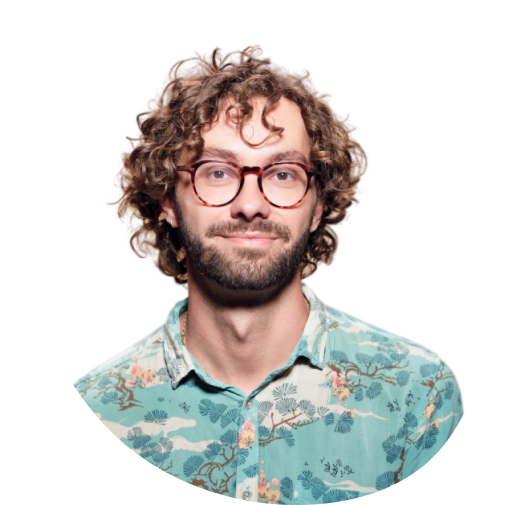
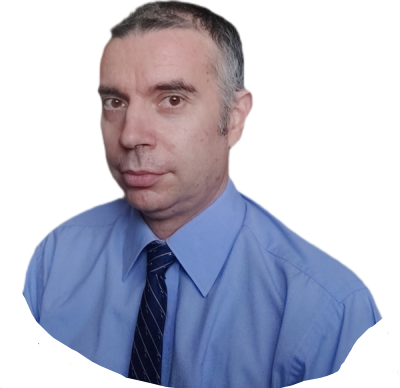
about tabs

diff --git a/components/About.jsx b/components/About.jsx
@@ -1,0 +1,143 @@
+import DevImg from "./DevImg";
+import Image from "next/image";
+import { Tabs, TabsContent, TabsList, TabsTrigger } from "@/components/ui/tabs";
+import {
+  User2,
+  MailIcon,
+  HomeIcon,
+  PhoneCall,
+  GraduationCap,
+  Calendar,
+  Briefcase,
+} from "lucide-react";
+
+const infoData = [
+  {
+    icon: <User2 size={20} />,
+    text: "Herlea Marius",
+  },
+  {
+    icon: <MailIcon size={20} />,
+    text: "mariusherlea@gmail.com",
+  },
+  {
+    icon: <HomeIcon size={20} />,
+    text: "Principala,Vinerea,RO",
+  },
+  {
+    icon: <PhoneCall size={20} />,
+    text: "+40 722 256 129",
+  },
+  {
+    icon: <GraduationCap size={20} />,
+    text: "Bachelor of Computer Science",
+  },
+  {
+    icon: <Calendar size={20} />,
+    text: "Born on 6 Jan, 1977",
+  },
+];
+const qualificationsData = [
+  {
+    title: "education",
+    data: [
+      {
+        training: "Skillbrain",
+        qualification: "Front-end Developer course",
+        year: "2023-2024",
+      },
+      {
+        university: "Alba Iulia University",
+        qualification: "Bachelor of Computer Science",
+        year: "2017-2020",
+      },
+      {
+        university: "Alba Iulia University",
+        qualification: "Bachelor of Economics",
+        year: "1997-2003",
+      },
+    ],
+  },
+  {
+    title: "experience",
+    data: [
+      {
+        company: "Skillbrain-Jogga internship",
+        qualification: "Front-end Developer",
+        year: "2024",
+      },
+      {
+        company: "schmalzle fleischwaren GmbH",
+        qualification: "Worker",
+        year: "2022-2023",
+      },
+    ],
+  },
+];
+const skillData = [
+  {
+    title: "skills",
+    data: [
+      { name: "HTML, CSS " },
+      { name: "Javascript" },
+      { name: "React" },
+      { name: "Next.js, OOP" },
+    ],
+  },
+  {
+    title: "tools",
+    data: [
+      { imgPath: "/about/vscode.svg" },
+      { imgPath: "/about/figma.svg" },
+      { imgPath: "/about/notion.svg" },
+      { imgPath: "/about/vscode.svg" },
+    ],
+  },
+];
+
+const About = () => {
+  const getData = (arr, title) => {
+    return arr.find((item) => item.title === title);
+  };
+
+  return (
+    <section className="xl:h-[860px] pb-12 xl:py-24">
+      <div className="container mx-auto">
+        <h2 className="section-title mb-8 xl:mb-16 text-center mx-auto">
+          About me
+        </h2>
+        <div className="flex flex-col xl:flex-row">
+          {/*image*/}
+          <div className="hidden xl:flex flex-1 relative">
+            <DevImg
+              containerStyles="dark:bg-about_shape_dark 
+              w-[505px] h-[505px] bg-no-repeat relative"
+              imgSrc={"/about/developer.png"}
+            />
+          </div>
+          {/*tabs*/}
+          <div className="flex-1">
+            <Tabs defaultValue="personal">
+              <TabsList className="w-full grid xl:grid-cols-3 xl:max-w-[520px] xl:border dark:border-none">
+                <TabsTrigger value="personal">Personal Info</TabsTrigger>
+                <TabsTrigger value="qualifications">Qualifications</TabsTrigger>
+                <TabsTrigger value="skills">Skills</TabsTrigger>
+              </TabsList>
+              {/** tabs content*/}
+              <div className="text-lg mt-12 xl:mt-8">
+                {/** personal info*/}
+                <TabsContent value="personal">personal info</TabsContent>
+                <TabsContent value="qualifications">
+                  qualifications info
+                </TabsContent>
+                <TabsContent value="skills">skills info</TabsContent>
+              </div>
+            </Tabs>
+          </div>
+        </div>
+      </div>
+    </section>
+  );
+};
+
+export default About;

diff --git a/components/ui/tabs.jsx b/components/ui/tabs.jsx
@@ -1,33 +1,35 @@
-"use client"
+"use client";
 
-import * as React from "react"
-import * as TabsPrimitive from "@radix-ui/react-tabs"
+import * as React from "react";
+import * as TabsPrimitive from "@radix-ui/react-tabs";
 
-import { cn } from "@/lib/utils"
+import { cn } from "@/lib/utils";
 
-const Tabs = TabsPrimitive.Root
+const Tabs = TabsPrimitive.Root;
 
 const TabsList = React.forwardRef(({ className, ...props }, ref) => (
   <TabsPrimitive.List
     ref={ref}
     className={cn(
-      "inline-flex h-10 items-center justify-center rounded-md bg-muted p-1 text-muted-foreground",
+      "inline-flex items-center justify-center xl:bg-white p-1 text-muted-foreground rounded-[10px] dark:md:bg-secondary",
       className
     )}
-    {...props} />
-))
-TabsList.displayName = TabsPrimitive.List.displayName
+    {...props}
+  />
+));
+TabsList.displayName = TabsPrimitive.List.displayName;
 
 const TabsTrigger = React.forwardRef(({ className, ...props }, ref) => (
   <TabsPrimitive.Trigger
     ref={ref}
     className={cn(
-      "inline-flex items-center justify-center whitespace-nowrap rounded-sm px-3 py-1.5 text-sm font-medium ring-offset-background transition-all focus-visible:outline-none focus-visible:ring-2 focus-visible:ring-ring focus-visible:ring-offset-2 disabled:pointer-events-none disabled:opacity-50 data-[state=active]:bg-background data-[state=active]:text-foreground data-[state=active]:shadow-sm",
+      "inline-flex items-center justify-center whitespace-nowrap rounded-full px-3 py-1.5 text-base font-medium ring-offset-background transition-all focus-visible:outline-none focus-visible:ring-2 focus-visible:ring-ring focus-visible:ring-offset-2 disabled:pointer-events-none, disabled:opacity-50 data-[state=active]:bg-primary data-[state=active]:text-white data-[state=active]:shadow-sm h-[48px]",
       className
     )}
-    {...props} />
-))
-TabsTrigger.displayName = TabsPrimitive.Trigger.displayName
+    {...props}
+  />
+));
+TabsTrigger.displayName = TabsPrimitive.Trigger.displayName;
 
 const TabsContent = React.forwardRef(({ className, ...props }, ref) => (
   <TabsPrimitive.Content
@@ -36,8 +38,9 @@ const TabsContent = React.forwardRef(({ className, ...props }, ref) => (
       "mt-2 ring-offset-background focus-visible:outline-none focus-visible:ring-2 focus-visible:ring-ring focus-visible:ring-offset-2",
       className
     )}
-    {...props} />
-))
-TabsContent.displayName = TabsPrimitive.Content.displayName
+    {...props}
+  />
+));
+TabsContent.displayName = TabsPrimitive.Content.displayName;
 
-export { Tabs, TabsList, TabsTrigger, TabsContent }
+export { Tabs, TabsList, TabsTrigger, TabsContent };

diff --git a/app/globals.css b/app/globals.css
@@ -66,6 +66,11 @@
 .subtitle {
   @apply text-muted-foreground text-lg mb-8;
 }
+
+.section-title {
+  @apply text-3xl font-bold relative w-max flex items-center justify-between gap-x-3 before:bg-dots_light before:dark:bg-dots_dark before:bg-no-repeat before:bg-center before:w-[24px] before:h-[24px];
+}
+
 .badge {
   @apply z-10 w-[200px] h-[68px] bg-white dark:backdrop-blur-[44px] shadow-2xl p-4 rounded-[10px] flex items-center gap-x-4;
 }

diff --git a/tailwind.config.js b/tailwind.config.js
@@ -79,6 +79,10 @@ module.exports = {
         hero_shape: "url('/hero/shape-1.svg')",
         hero_shape2_light: "url('/hero/shape-2-light.svg')",
         hero_shape2_dark: "url('/hero/shape-2-dark.svg')",
+        about_shape_light: "url('/about/shape-light.svg')",
+        about_shape_dark: "url('/about/shape-dark.svg')",
+        dots_light: "url('/dots-light.svg')",
+        dots_dark: "url('/dots-dark.svg')",
       },
     },
   },

diff --git a/components/Hero.jsx b/components/Hero.jsx
@@ -74,7 +74,7 @@ const Hero = () => {
             <div className="bg-hero_shape2_light dark:bg-hero_shape2_dark w-[500px] h-[500px] bg-no-repeat absolute -top-1 -right-2"></div>
             <DevImg
               containerStyles="bg-hero_shape w-[510px] h-[462px] bg-no-repeat relative bg-bottom"
-              imgSrc="/hero/marius.png"
+              imgSrc="/hero/developer.png"
             />
           </div>
         </div>

diff --git a/app/page.jsx b/app/page.jsx
@@ -1,9 +1,11 @@
+import About from "@/components/About";
 import Hero from "@/components/Hero";
 
 export default function Home() {
   return (
     <main>
       <Hero />
+      <About />
     </main>
   );
 }
